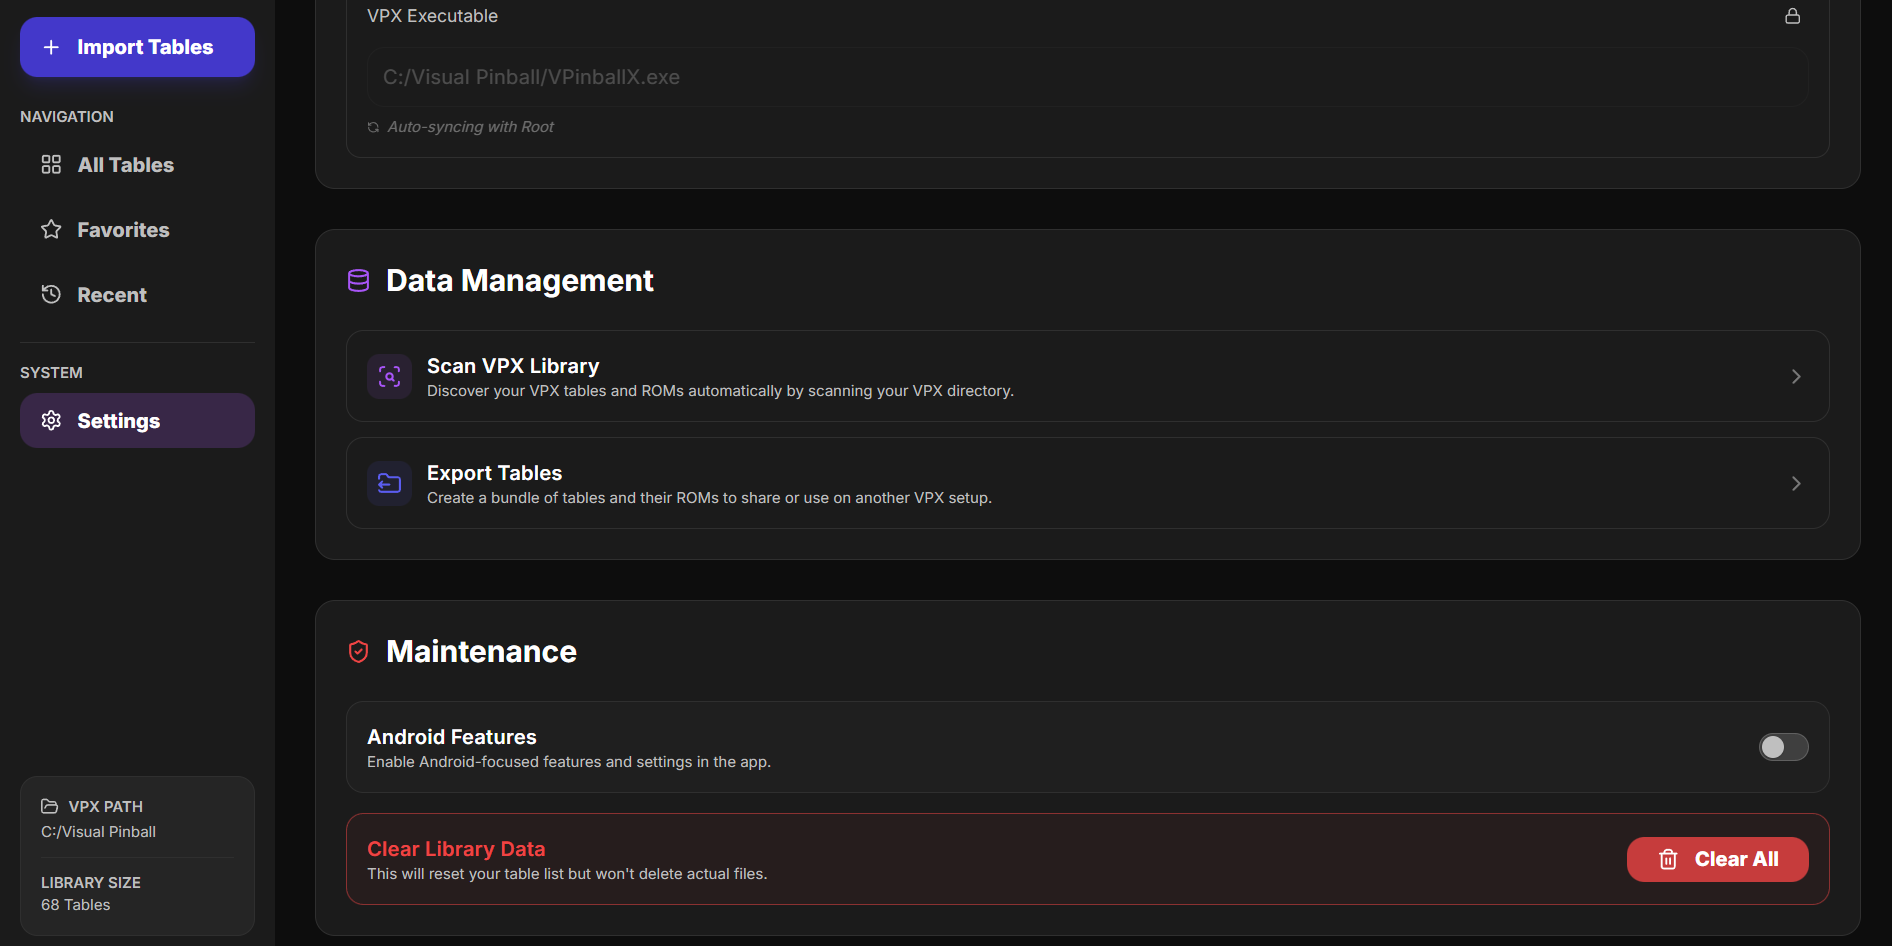
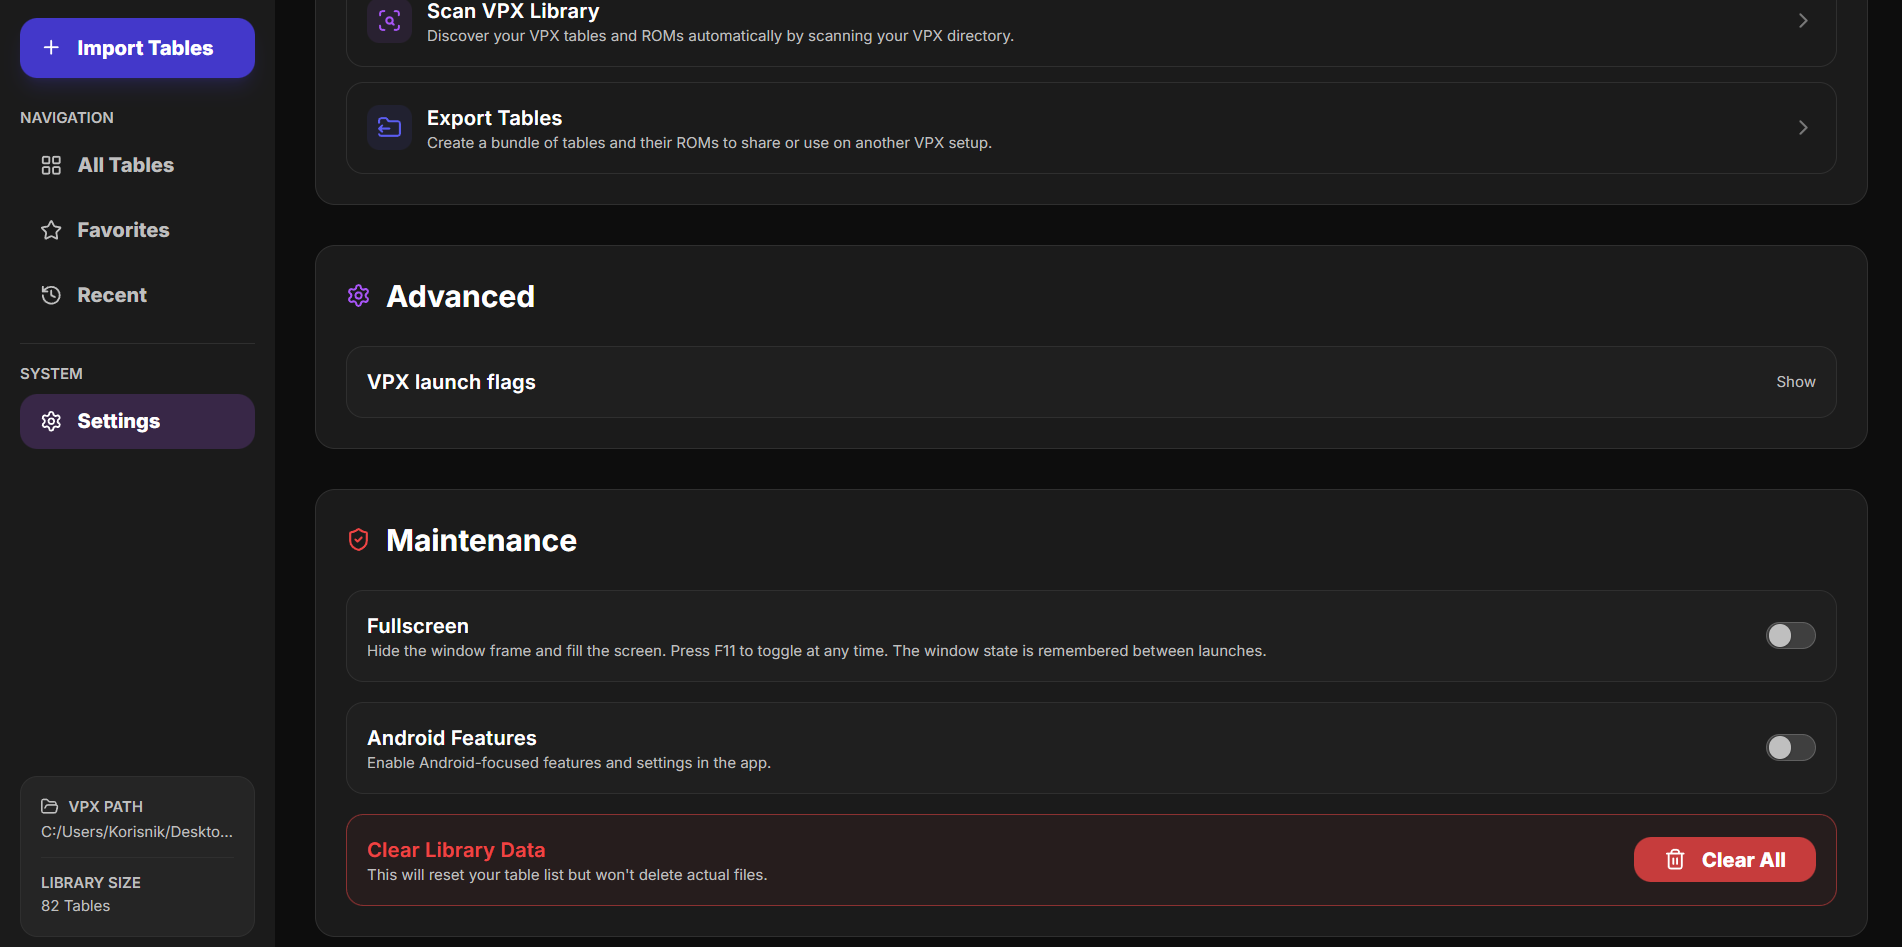
update readme

diff --git a/README.md b/README.md
@@ -163,7 +163,7 @@ If you already have an existing VPX setup, start with Scan Library first.
   - Rename table
   - Edit ROM — set the ROM file associated with this table
   - Table Image (if available from VPS DB) — click to view or edit image selection from alternate results.
-  - VPX Executable — set a different VPX exe file per table (overrides the global one)
+  - VPX Executable — open launch settings to set a different VPX executable for this table and, on Windows, optional per-table launch-flag overrides. Unset flags use the global defaults.
   - Delete Table — removes the DB entry and deletes the table's files from VPX folders
   - Archive / Unarchive table — archive the table to hide it from your active library.
 
@@ -247,9 +247,20 @@ On your Android device:
 
 ### Maintenance
 
+- **Fullscreen** toggles fullscreen mode. Press **F11** on Windows or **Ctrl+Cmd+F** on macOS to toggle it from anywhere in the app. Window size, position, maximized state, and fullscreen state are restored on the next launch.
 - **Clear Library Data** resets app metadata/list only.
 - It does **not** delete your actual VPX/ROM files.
 - **Database Migrations** run automatically on app update to keep existing data compatible.
+
+### Advanced launch settings (Windows)
+
+In **Settings → Advanced → VPX launch flags**, configure the global defaults:
+
+- **Limit CPU threads** passes `-LessCPUthreads` to VPX.
+- **Legacy pause menu** passes `-ExtMinimized` and is enabled by default. It is required for VPX 10.8.0 and earlier; turn it off for VPX 10.8.1 and newer, where it causes a launch error. The newer version's pause menu opens with **F12** by default.
+- Use **Reset to defaults** to restore the built-in settings.
+
+To override either flag for one table, open its **Kebab menu → VPX Executable → Launch flags (advanced)**. Choose **Use default**, **On**, or **Off** for each flag. macOS launches do not use these Windows command-line flags.
 
 ### VPX utilities
 
@@ -264,6 +275,8 @@ If you are running this locally from source:
 yarn install
 yarn dev
 ```
+
+Development runs use a separate `-dev` data store so development data stays separate from the installed app. `yarn db:reset` clears the development store by default; pass `--prod` only when you intentionally want to clear the production store.
 
 ### Data mocking notes
 
